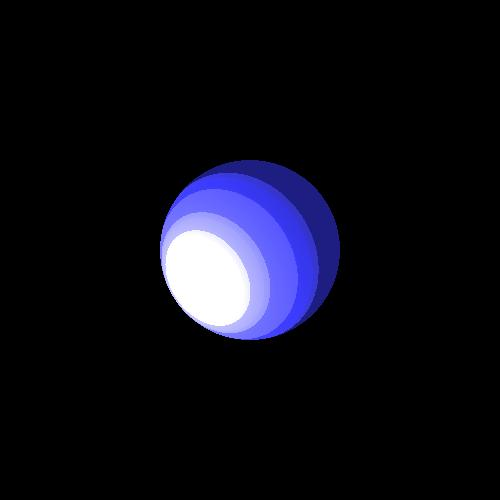
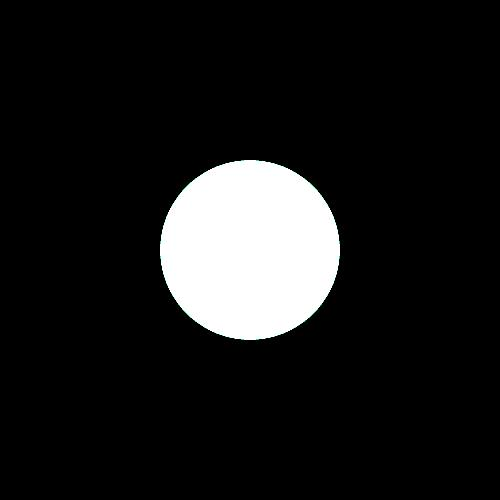
fix some bugs, and more

Changed region(s): [[0.3, 0.3, 0.69, 0.69], [0.33, 0.54, 0.36, 0.6]]

diff --git a/src/renderer/Render.java b/src/renderer/Render.java
@@ -73,7 +73,7 @@ public class Render {
 			if (n.dot_product(l) * n.dot_product(v) > 0) {
 				Color lightIntensity = lightSource.getIntensity(point);
 				color.add(calcDiffusive(kd, l, n, lightIntensity),
-						calcSpecular(ks, l, n, v, nShininess, lightIntensity));
+				calcSpecular(ks, l, n, v, nShininess, lightIntensity));
 			}
 		}
 
@@ -81,8 +81,8 @@ public class Render {
 	}
 
 	private Color calcSpecular(double ks, Vector l, Vector n, Vector v, int nShininess, Color lightIntensity) {
-		Vector r = new Vector(l.add(n.multiply(2 * l.dot_product(n))));
-		return new Color(lightIntensity).scale(ks * Math.abs(Math.pow(v.dot_product(r),nShininess)));
+		Vector r = l.add(n.multiply(2 * l.dot_product(n)));
+		return new Color(lightIntensity).scale(ks * Math.pow(Math.abs(v.dot_product(r)),nShininess));
 	}
 
 	private Color calcDiffusive(double kd, Vector l, Vector n, Color lightIntensity) {

diff --git a/src/elements/PointLight.java b/src/elements/PointLight.java
@@ -33,7 +33,8 @@ public class PointLight extends Light implements LightSource {
 
 	@Override
 	public Vector getD(Point3D point) {
-		return point.subtract(this._position).normalization();
+	//	return point.subtract(this._position).normalization();
+		return getL(point);
 	}
 
 	@Override
